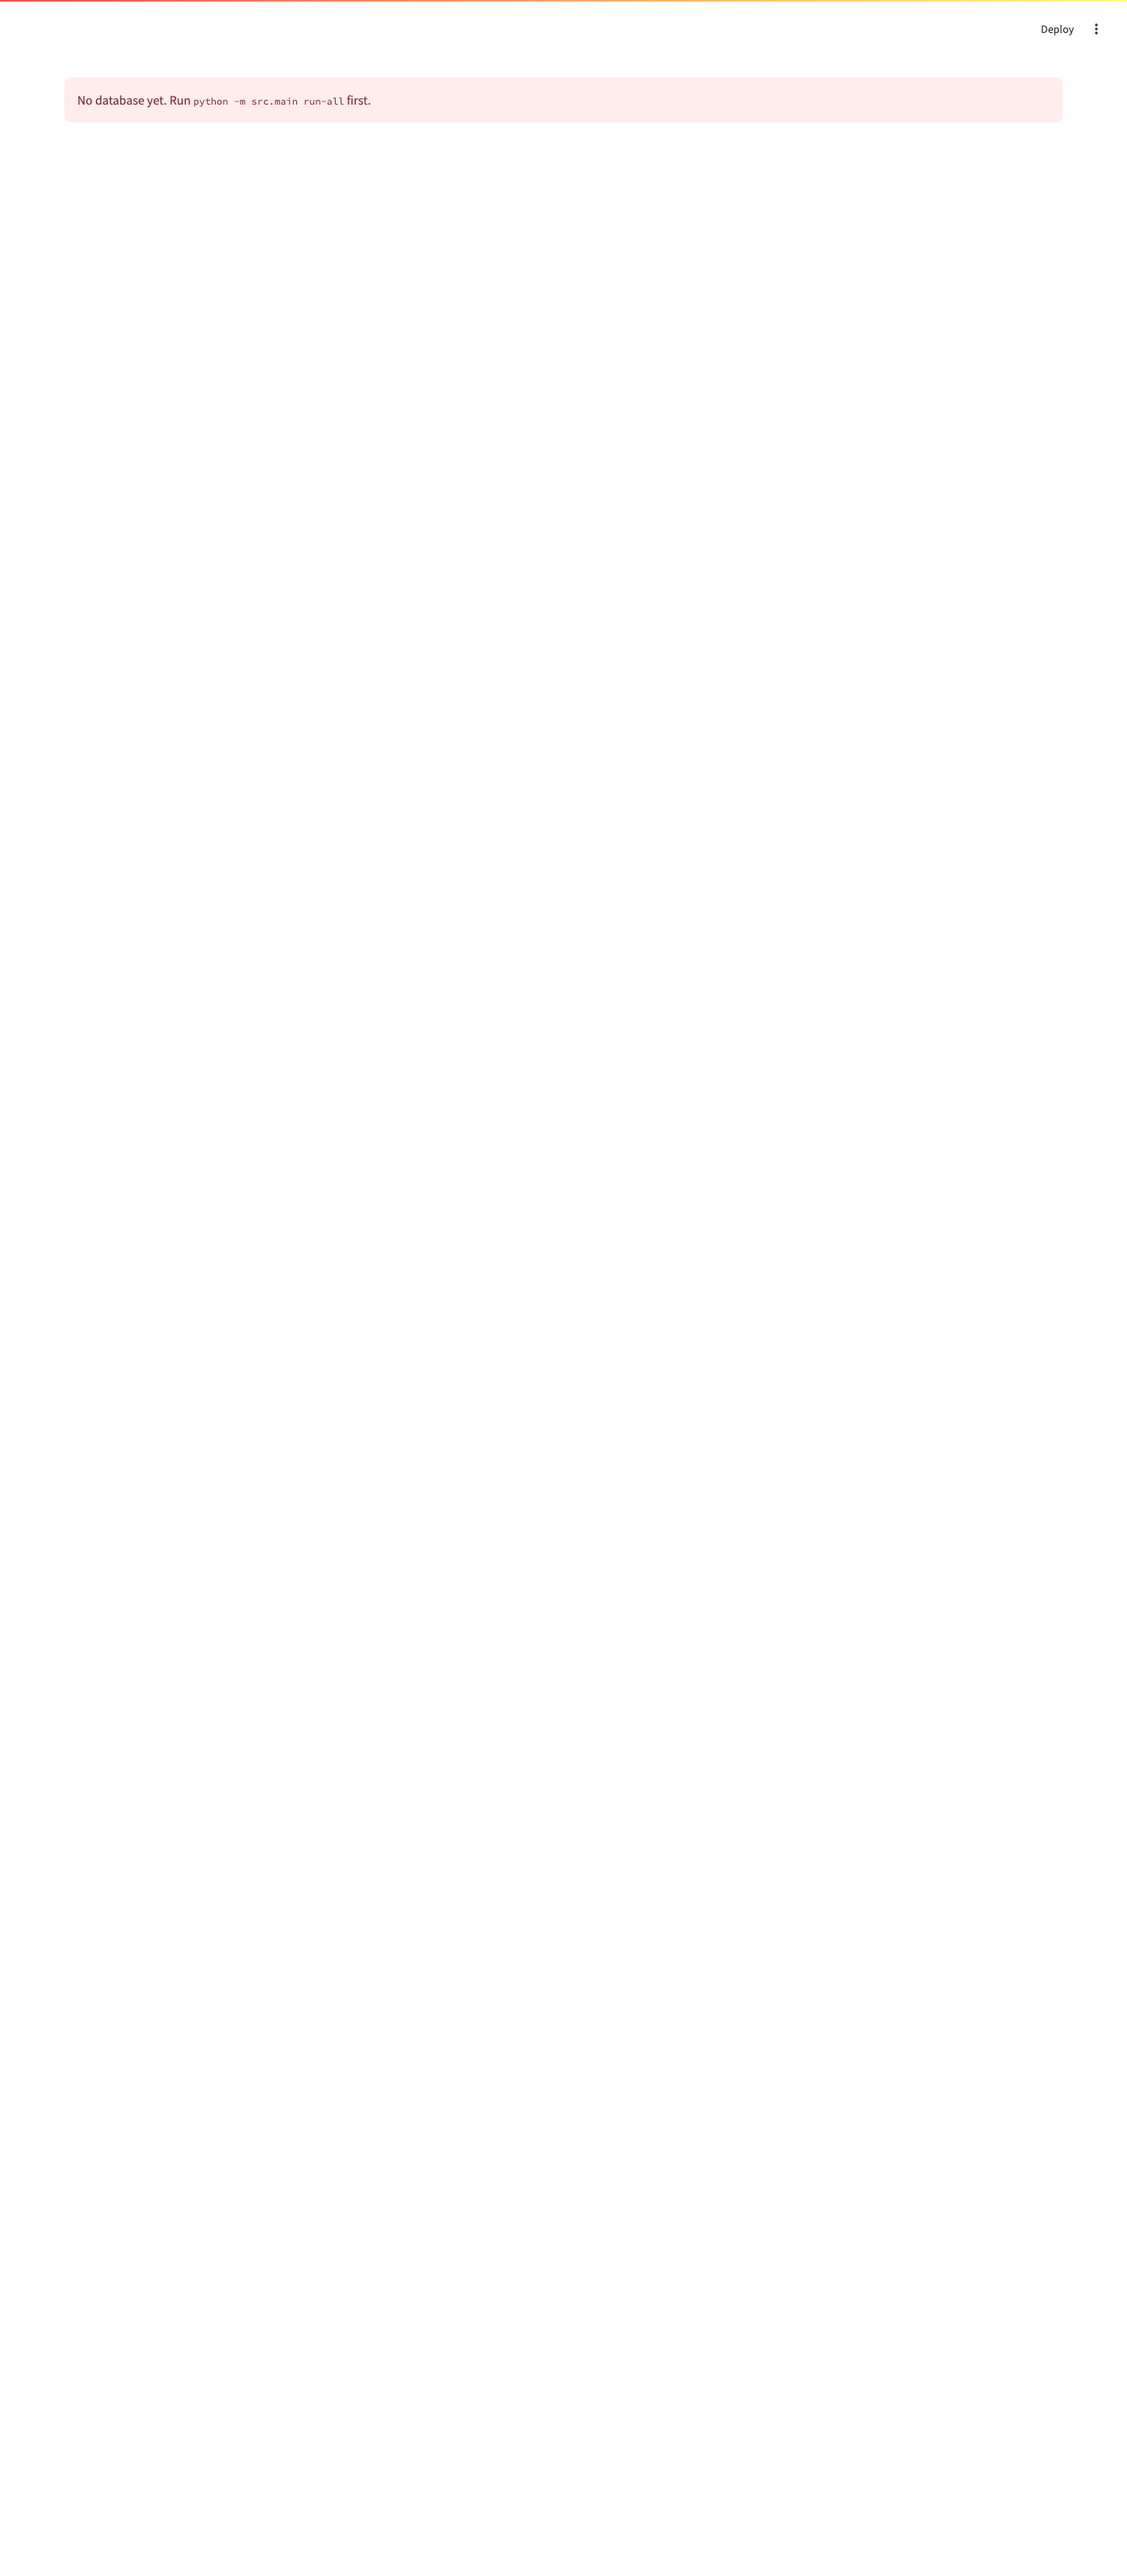
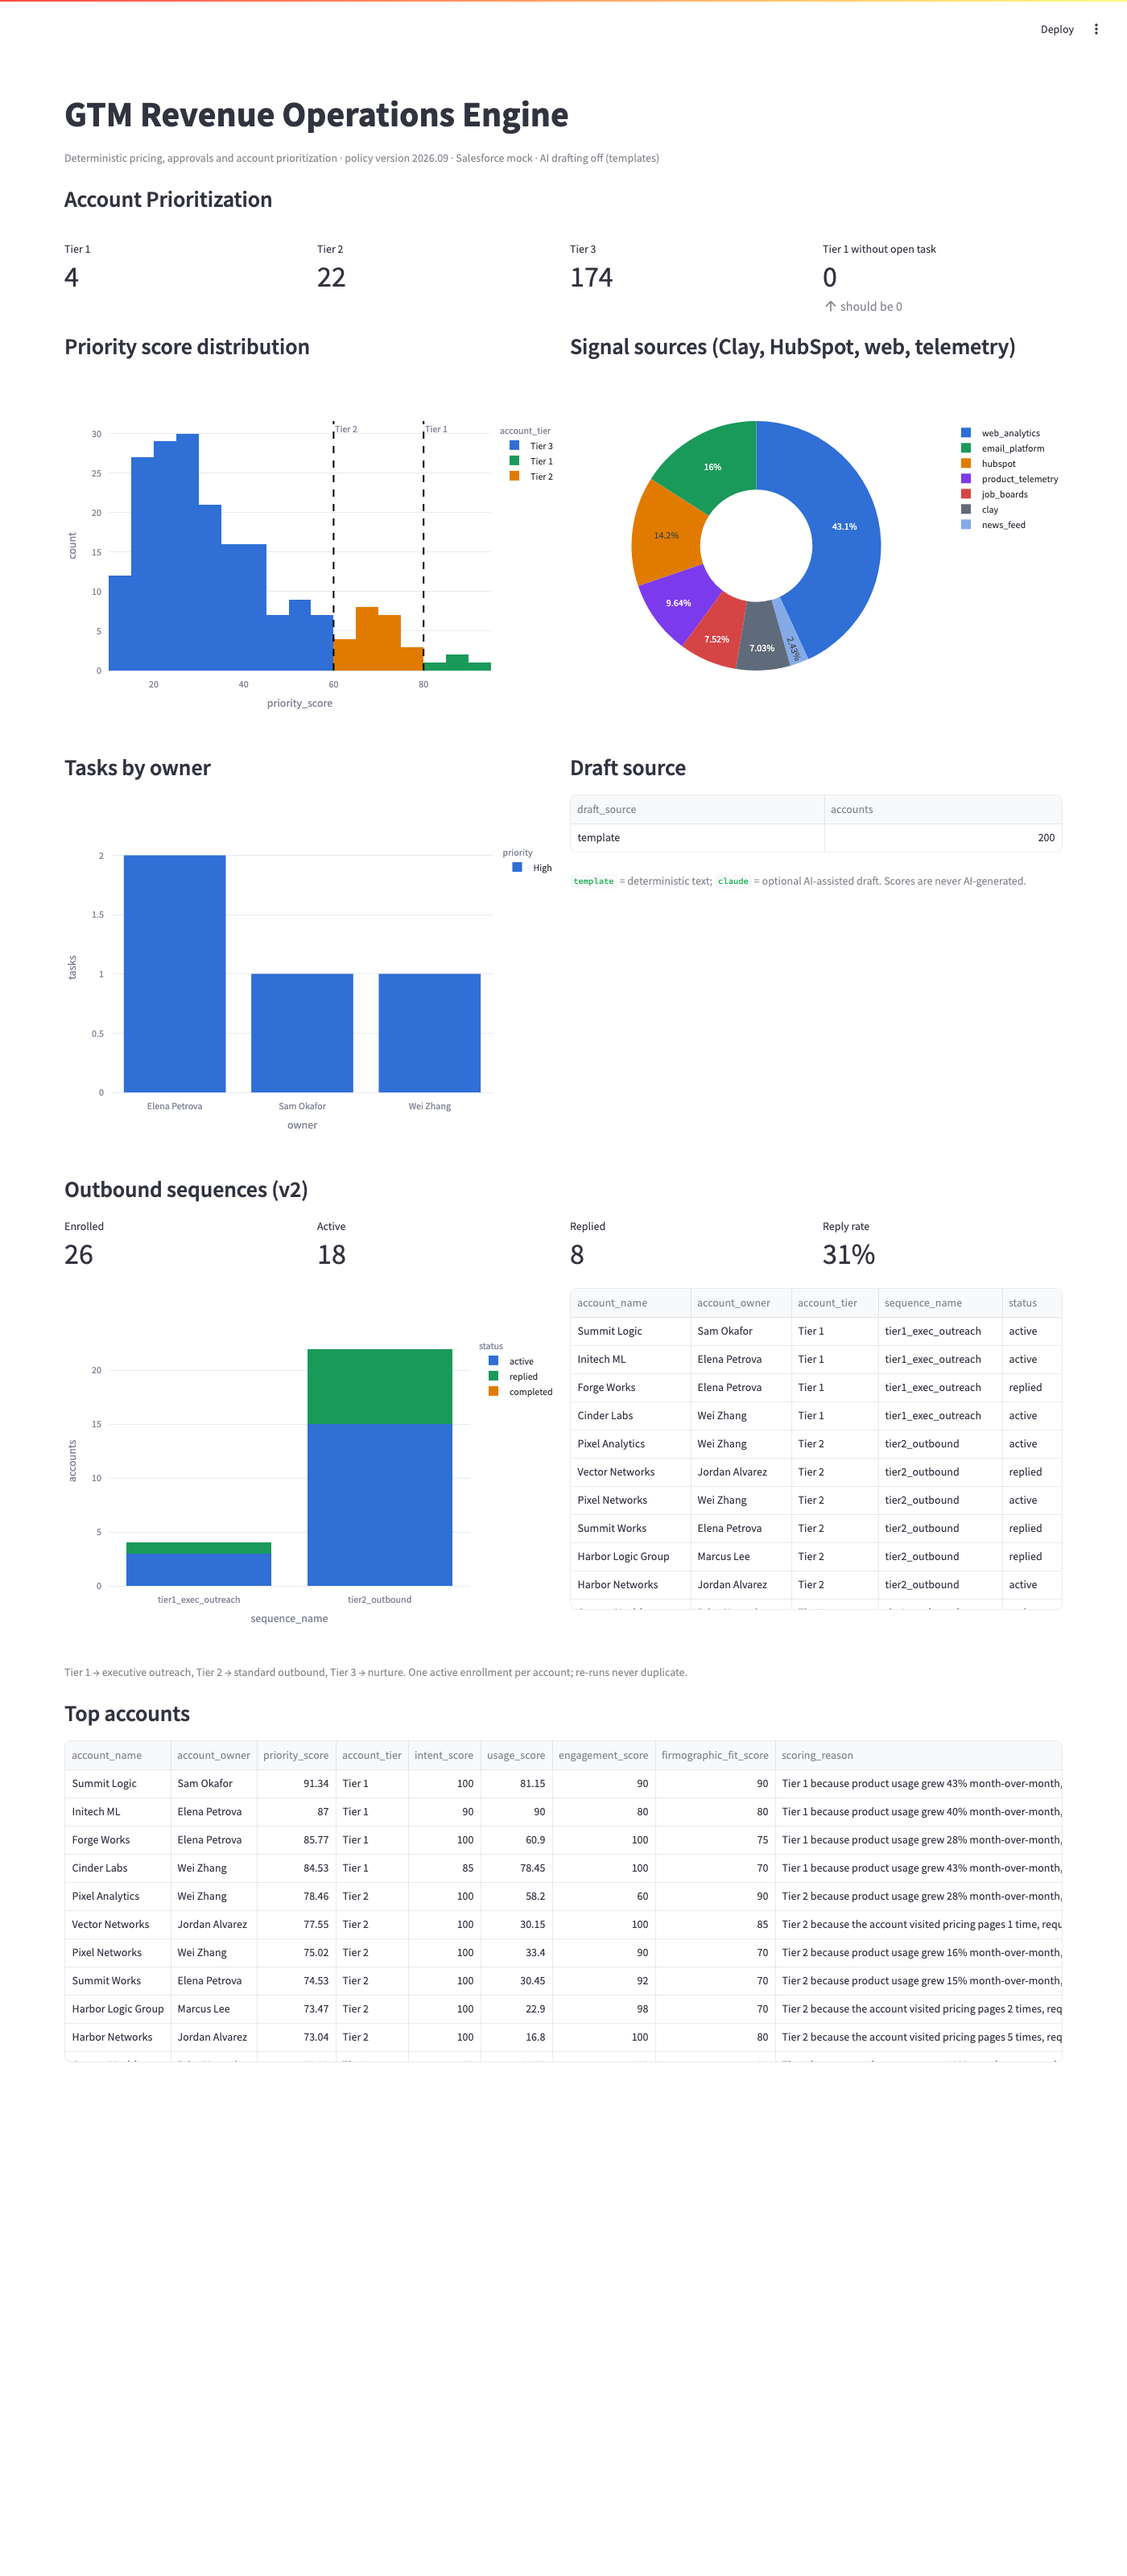
Restore dashboard screenshots and add a guarded capture script
The previous capture ran before the database was rebuilt and saved the
dashboard's empty-state error. scripts/capture_screenshots.py refuses to save
a tab that shows an alert; make screenshots rebuilds the database first.

diff --git a/scripts/capture_screenshots.py b/scripts/capture_screenshots.py
@@ -1,0 +1,47 @@
+"""Capture the four dashboard tabs into docs/screenshots. Requires: pip install playwright && playwright install chromium.
+
+Run through `make screenshots`, which rebuilds the database first so the dashboard has data to render.
+"""
+from __future__ import annotations
+
+import subprocess
+import sys
+import time
+
+from src.config import PROJECT_ROOT, settings
+
+VIEWS = {"cpq": "cpq_operations", "gtm": "account_prioritization", "pipe": "pipeline", "dq": "data_quality"}
+PORT = 8512
+
+
+def main() -> int:
+    if not settings.duckdb_file.exists():
+        print("no database; run `python -m src.main run-all` first", file=sys.stderr)
+        return 1
+    from playwright.sync_api import sync_playwright
+
+    out = PROJECT_ROOT / "docs" / "screenshots"
+    proc = subprocess.Popen([sys.executable, "-m", "streamlit", "run", "dashboard/app.py", "--server.port", str(PORT),
+                             "--server.headless", "true"], cwd=PROJECT_ROOT, stdout=subprocess.DEVNULL, stderr=subprocess.DEVNULL)
+    try:
+        time.sleep(8)
+        with sync_playwright() as p:
+            browser = p.chromium.launch()
+            for key, name in VIEWS.items():
+                page = browser.new_page(viewport={"width": 1400, "height": 3200})
+                page.goto(f"http://127.0.0.1:{PORT}/?view={key}", wait_until="networkidle")
+                page.wait_for_timeout(8000)
+                if page.locator("[data-testid='stAlert']").count():
+                    print(f"{name}: dashboard shows an alert; not saving", file=sys.stderr)
+                    return 1
+                page.screenshot(path=str(out / f"{name}.png"), full_page=True)
+                page.close()
+                print("captured", name)
+            browser.close()
+    finally:
+        proc.terminate()
+    return 0
+
+
+if __name__ == "__main__":
+    sys.exit(main())
